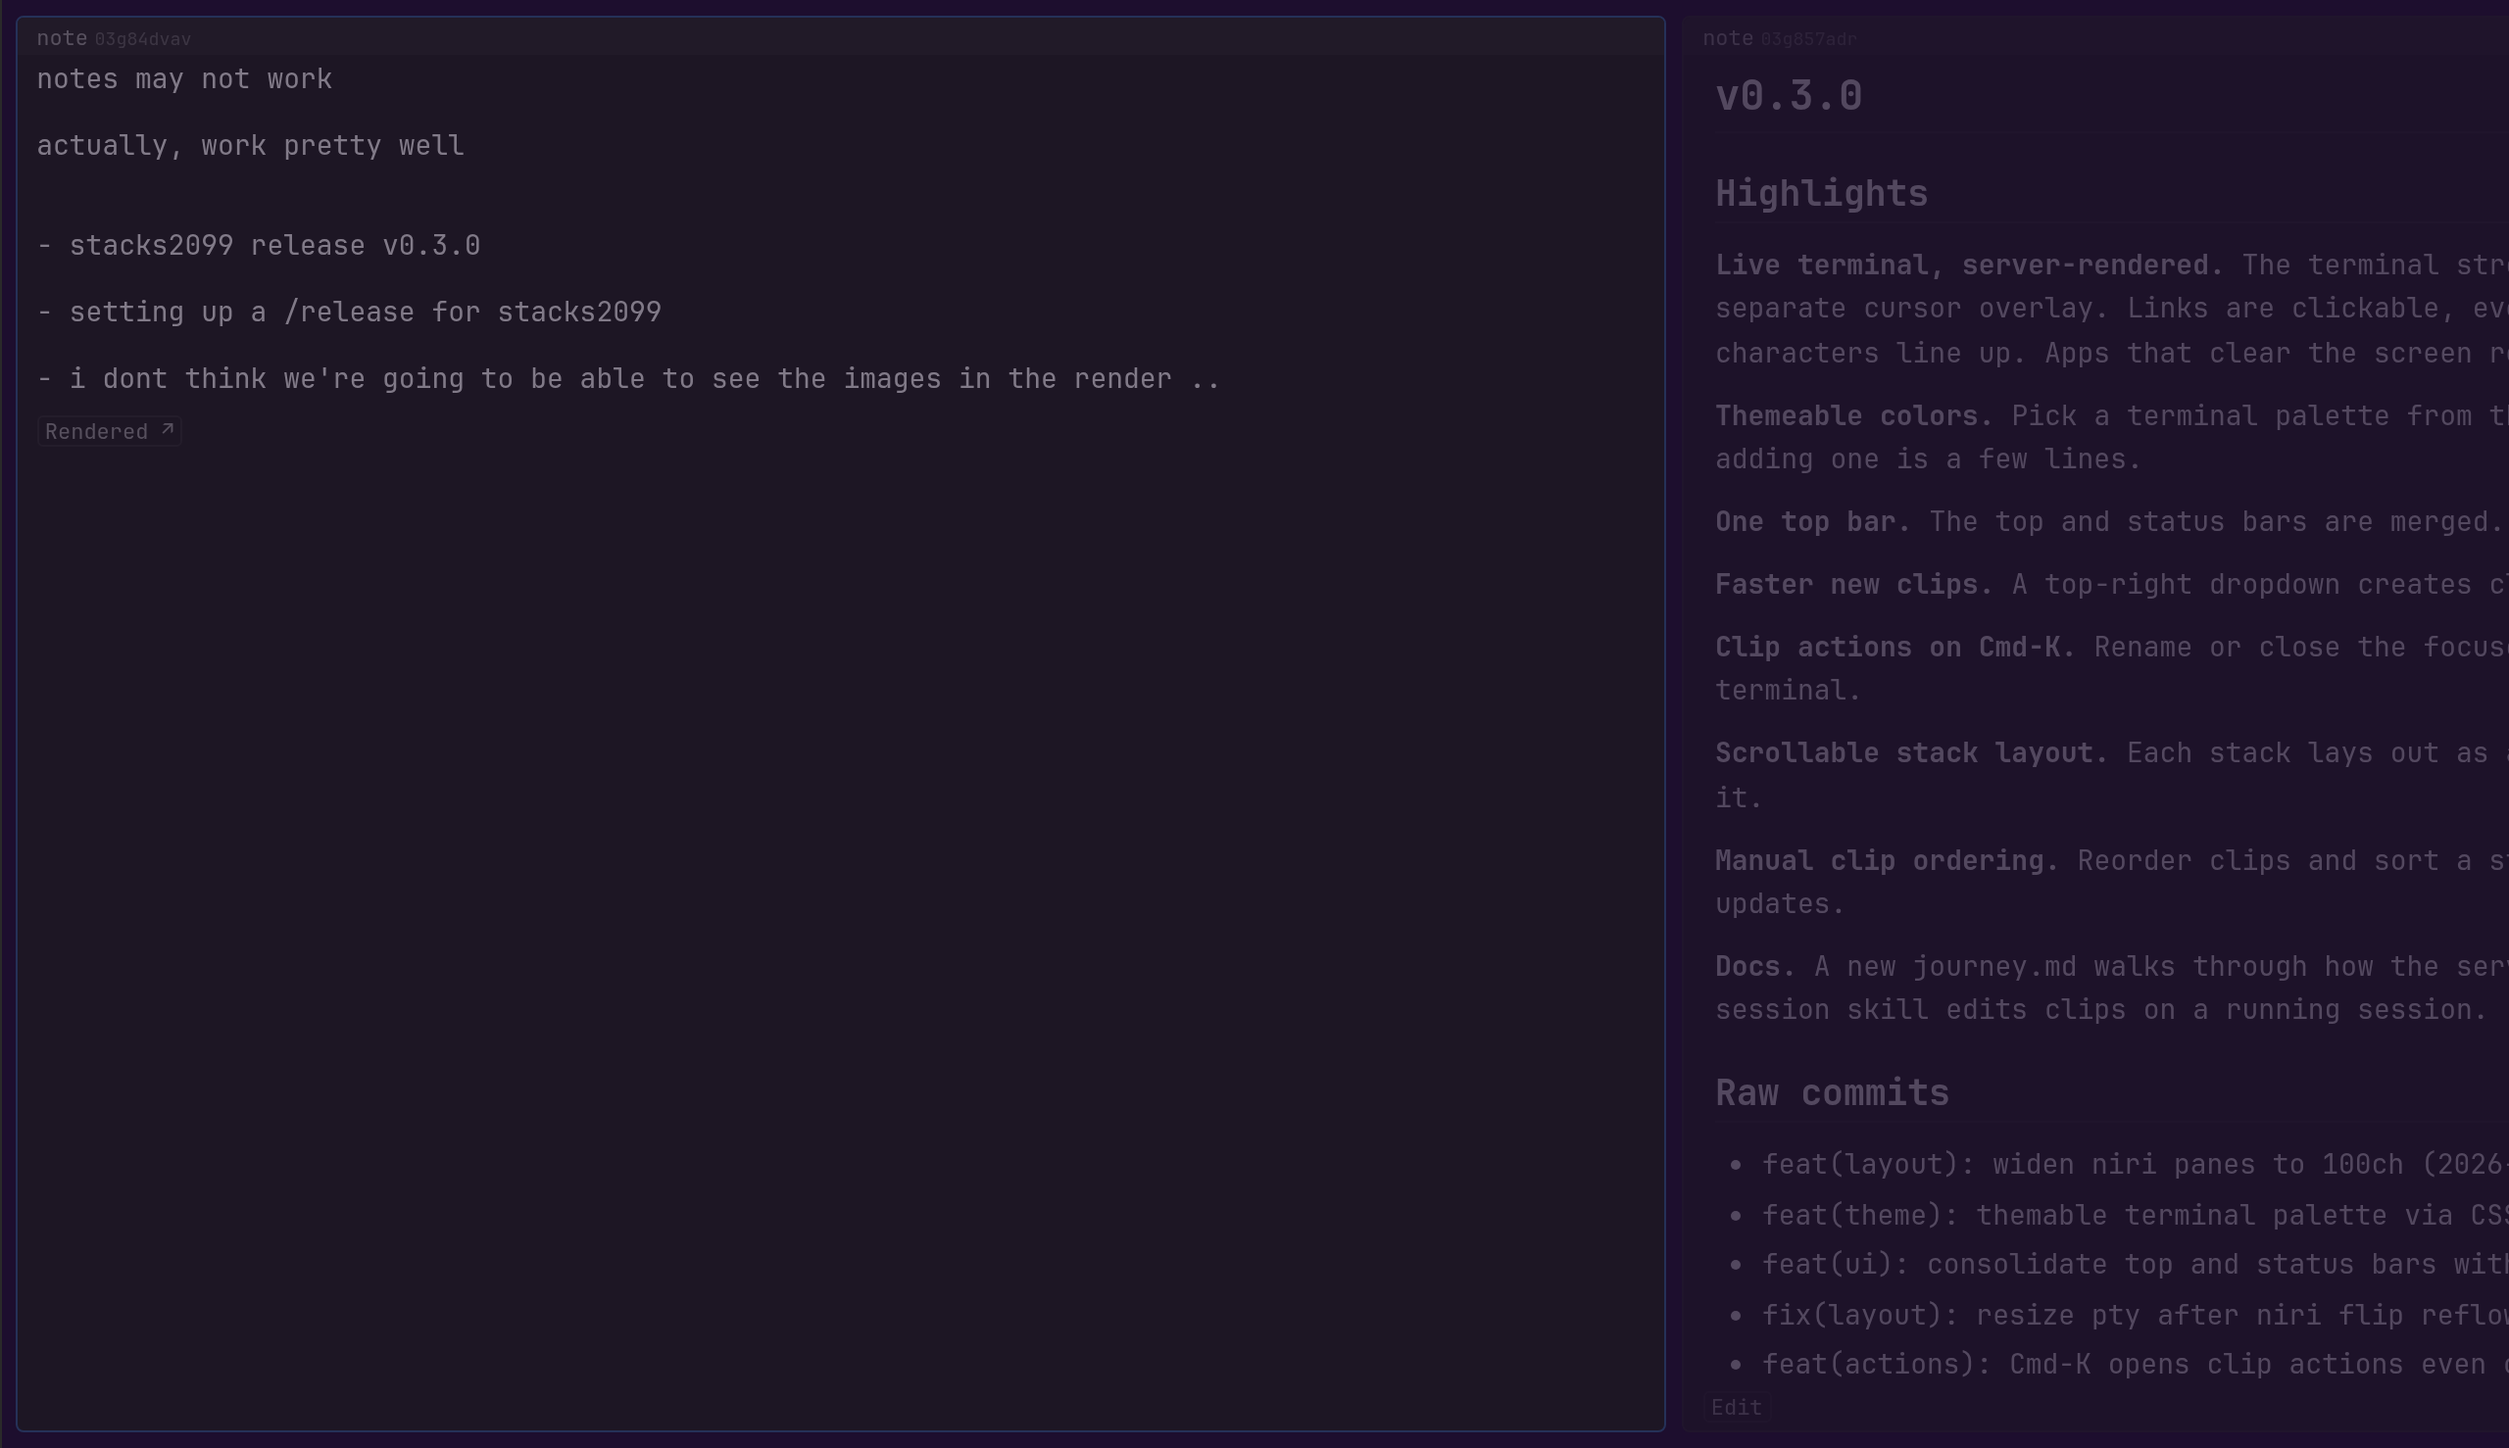
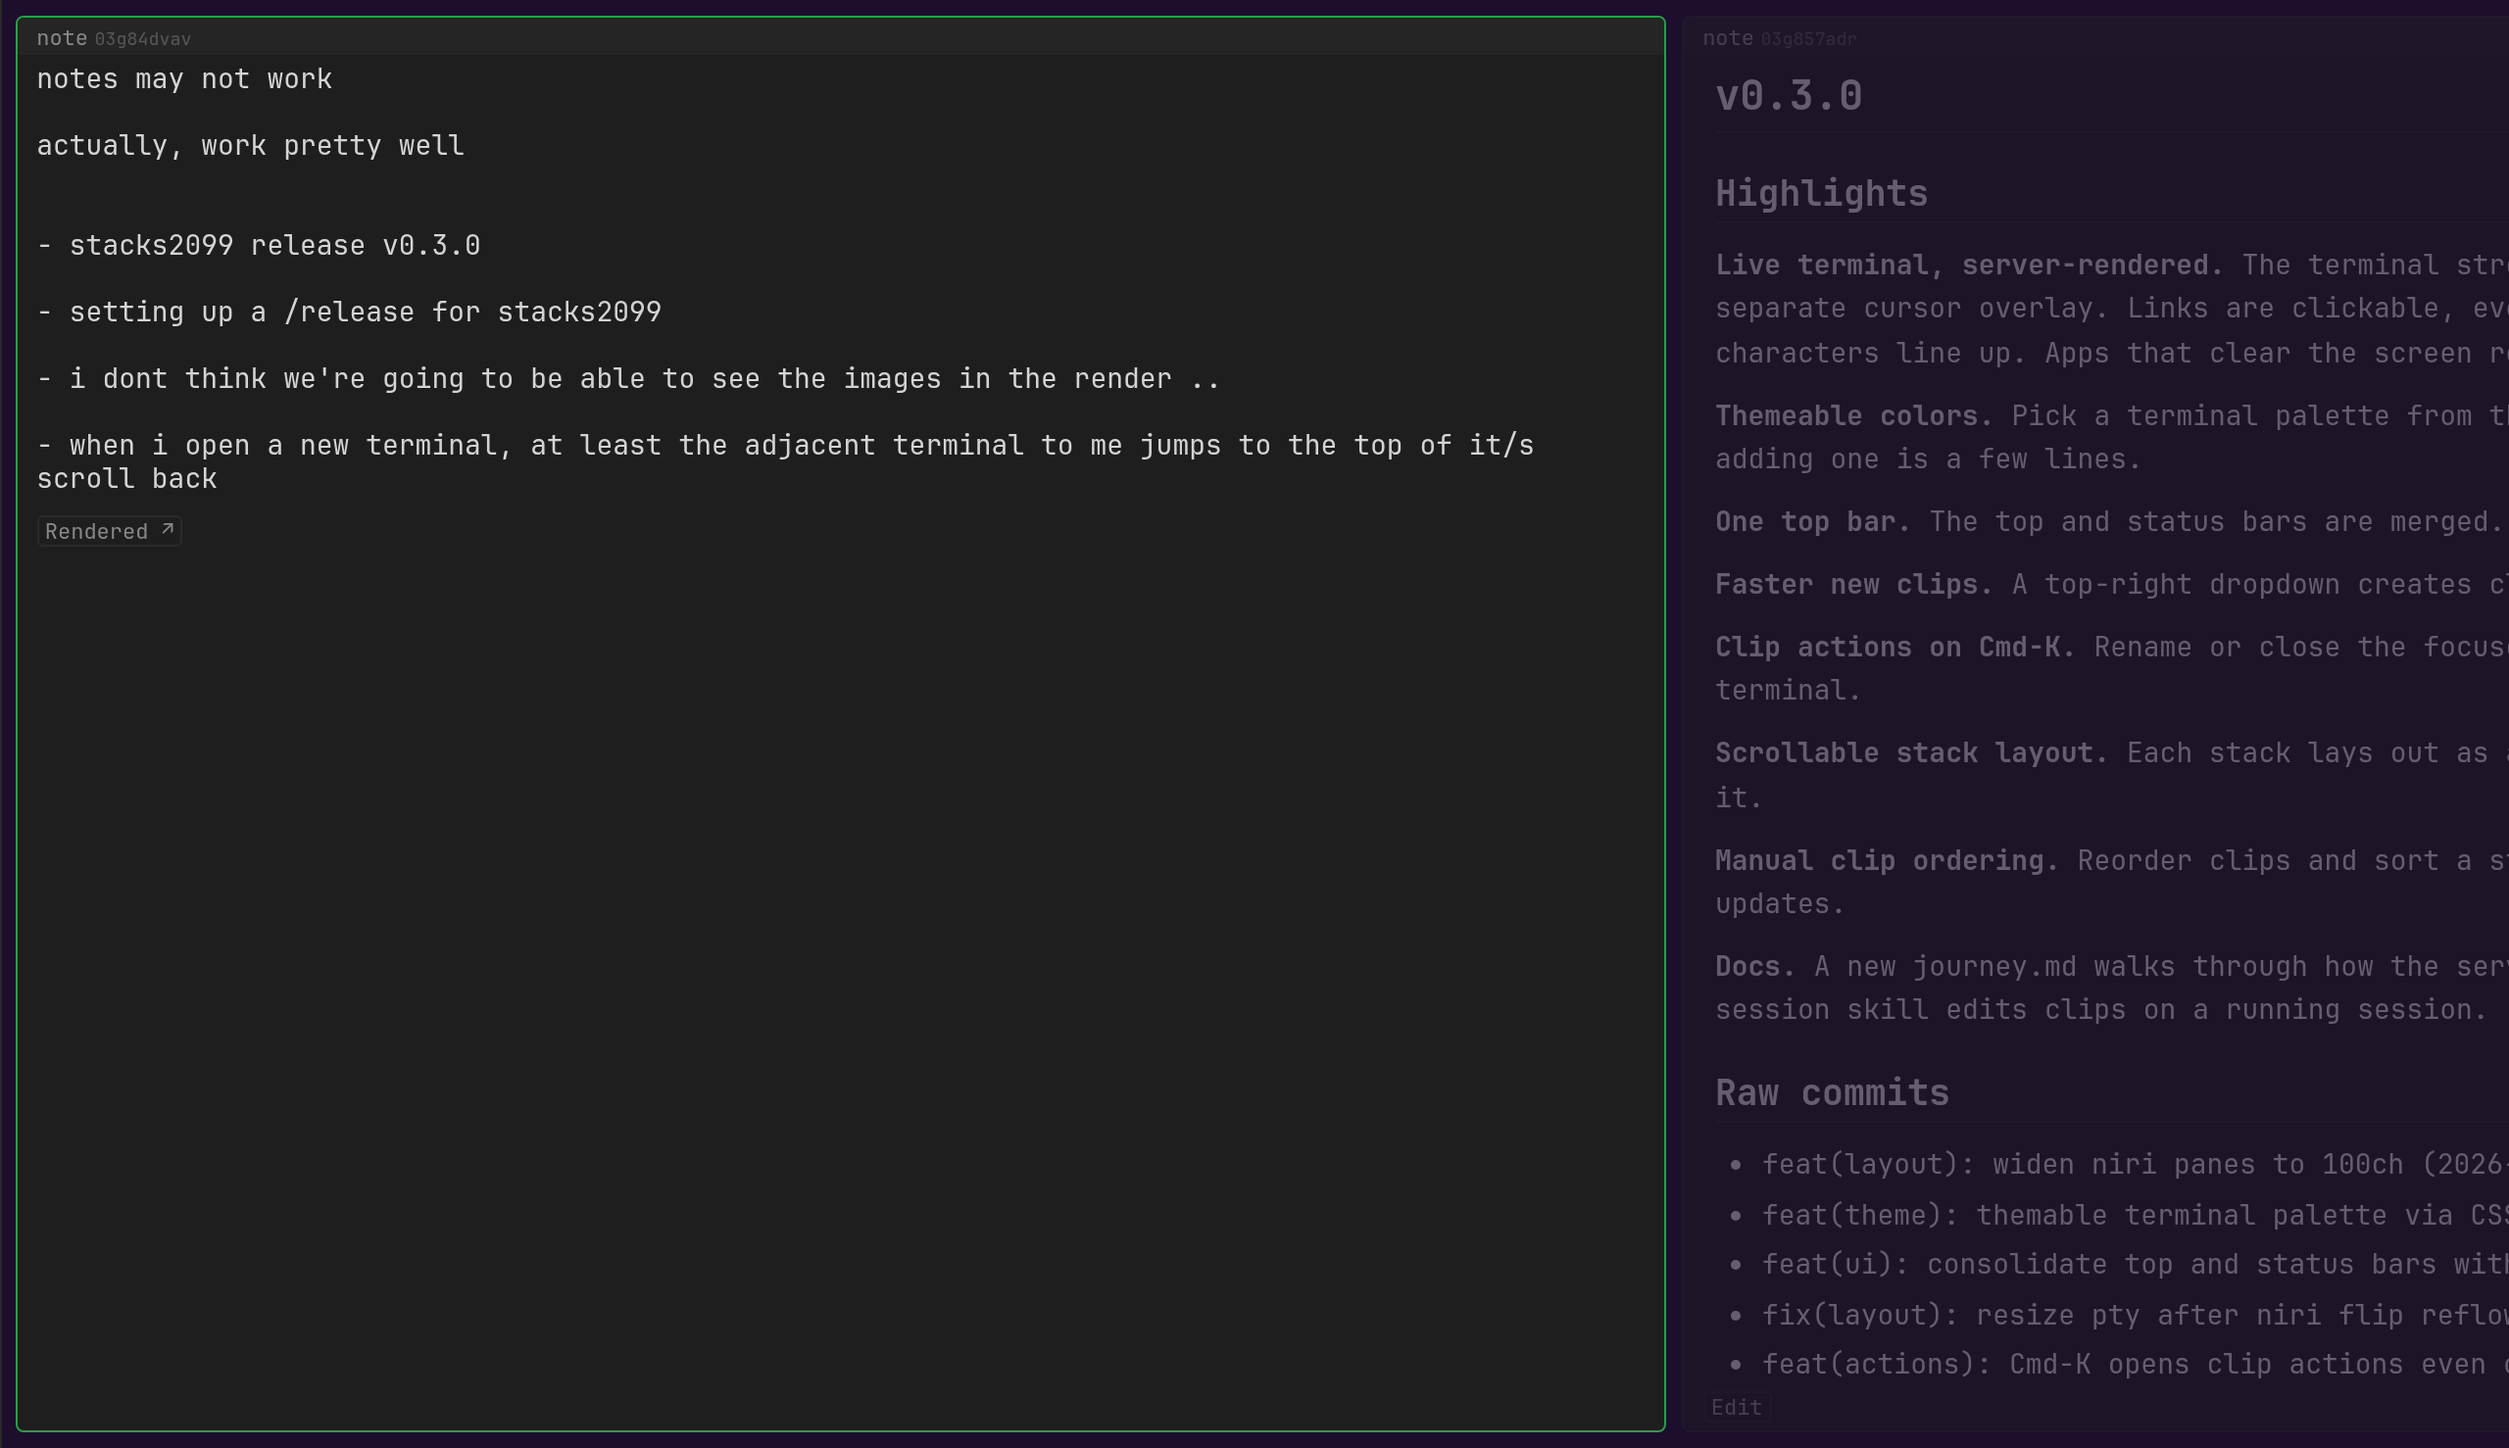
docs(changelog): size screenshots with img tags, focus panes before capture

diff --git a/changes/v0.3.0.md b/changes/v0.3.0.md
@@ -4,27 +4,27 @@
 
 **Live terminal, server-rendered.** The terminal streams to the browser as row-by-row diffs with a separate cursor overlay. Links are clickable, even when a URL wraps across lines. Wide characters line up. Apps that clear the screen redraw cleanly.
 
-![Live terminal pane](https://raw.githubusercontent.com/cablehead/stacks2099/main/changes/v0.3.0/terminal.png)
+<img alt="Live terminal pane" width="700" src="https://raw.githubusercontent.com/cablehead/stacks2099/main/changes/v0.3.0/terminal.png">
 
 **Themeable colors.** Pick a terminal palette from the top bar. Themes are plain CSS variables, so adding one is a few lines.
 
-![Theme picker](https://raw.githubusercontent.com/cablehead/stacks2099/main/changes/v0.3.0/theme.png)
+<img alt="Theme picker" width="240" src="https://raw.githubusercontent.com/cablehead/stacks2099/main/changes/v0.3.0/theme.png">
 
 **One top bar.** The top and status bars are merged. New and Actions handles are always visible.
 
-![Top bar](https://raw.githubusercontent.com/cablehead/stacks2099/main/changes/v0.3.0/topbar.png)
+<img alt="Top bar" width="760" src="https://raw.githubusercontent.com/cablehead/stacks2099/main/changes/v0.3.0/topbar.png">
 
 **Faster new clips.** A top-right dropdown creates clips. Type to pick the kind, no mouse needed.
 
-![New-clip dropdown](https://raw.githubusercontent.com/cablehead/stacks2099/main/changes/v0.3.0/newclip.png)
+<img alt="New-clip dropdown" width="240" src="https://raw.githubusercontent.com/cablehead/stacks2099/main/changes/v0.3.0/newclip.png">
 
 **Clip actions on Cmd-K.** Rename or close the focused clip from one panel, even over a live terminal.
 
-![Clip-actions panel](https://raw.githubusercontent.com/cablehead/stacks2099/main/changes/v0.3.0/actions.png)
+<img alt="Clip-actions panel" width="240" src="https://raw.githubusercontent.com/cablehead/stacks2099/main/changes/v0.3.0/actions.png">
 
 **Scrollable stack layout.** Each stack lays out as a horizontal strip you can scroll. Alt+L toggles it.
 
-![Scrollable niri layout](https://raw.githubusercontent.com/cablehead/stacks2099/main/changes/v0.3.0/layout-niri.png)
+<img alt="Scrollable niri layout" width="760" src="https://raw.githubusercontent.com/cablehead/stacks2099/main/changes/v0.3.0/layout-niri.png">
 
 **Manual clip ordering.** Reorder clips and sort a stack with keyboard chords; order survives live updates.
 
